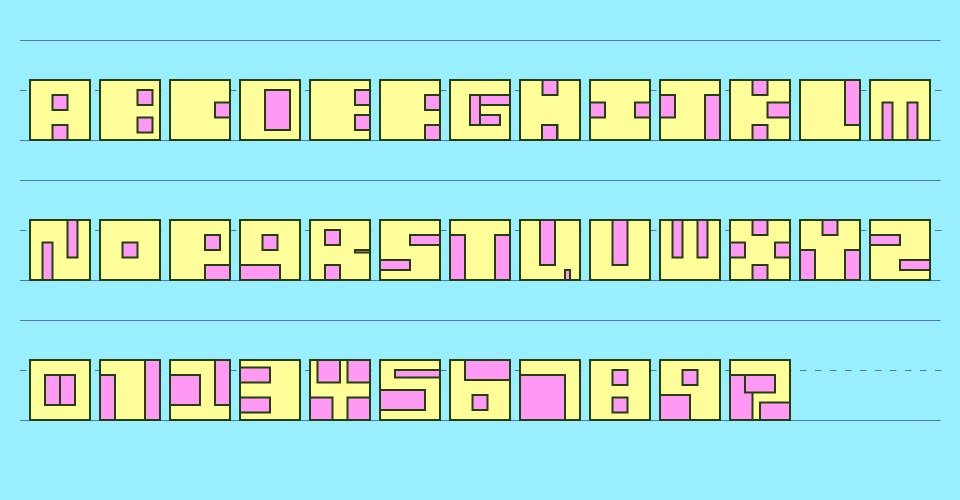
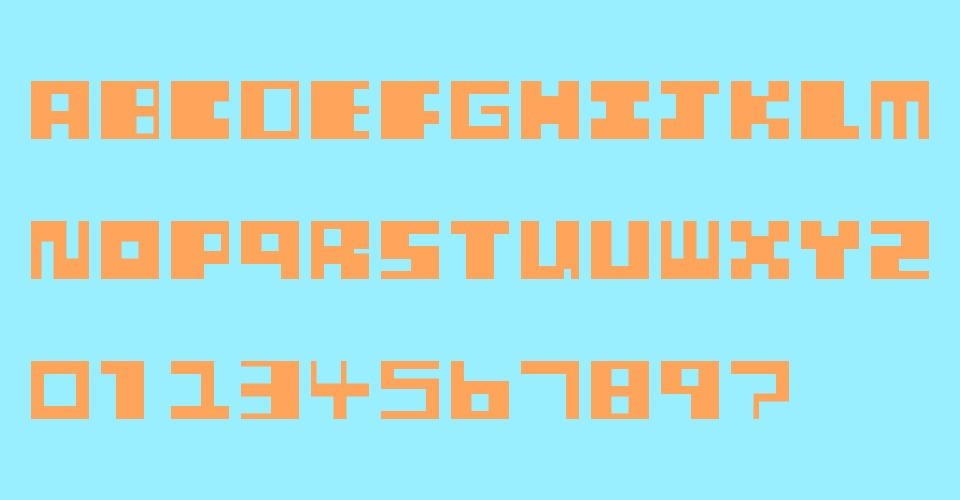
colour changes

diff --git a/editor.js b/editor.js
@@ -10,10 +10,8 @@ function sliderToDataObject() {
   obj["sizeB1y"] = map(param_sliders[1].value(), 0, 100, 0, 90);
   obj["sizeB2x"] = map(param_sliders[2].value(), 0, 100, 0, 90);
   obj["sizeB2y"] = map(param_sliders[3].value(), 0, 100, 0, 90);
- 
   obj["posB1x"] = map(param_sliders[4].value(), 0, 100, 0, 90);
   obj["posB1y"] = map(param_sliders[5].value(), 0, 100, 0, 90);
-
   obj["posB2x"] = map(param_sliders[6].value(), 0, 100, 0, 90);
   obj["posB2y"] = map(param_sliders[7].value(), 0, 100, 0, 90);
   obj["posB3x"] = map(param_sliders[8].value(), 0, 100, 0, 90);

diff --git a/draw_letters.js b/draw_letters.js
@@ -1,4 +1,4 @@
-const colorFront1  = "#ff99f3";
+const colorFront1  = "#FFA45B";
 const colorFront2  = "#99eeff";
 const colorStroke  = "#99eeff";
 
@@ -66,11 +66,12 @@ function interpolate_letter(percent, oldObj, newObj) {
      new_letter["posB4x"]    = map(percent, 0, 100, oldObj["posB4x"], newObj["posB4x"]);
   new_letter["posB4y"]    = map(percent, 0, 100, oldObj["posB4y"], newObj["posB4y"]);
   
+
   return new_letter;
 }
 
 var swapWords = [
-  "ABBAABBA",
-  "CAB?CAB?",
-  "BAAAAAAA"
+  "CUBEFONT",
+  "MUSHROOM",
+  "ABSOLUTE"
 ]

diff --git a/README.md b/README.md
@@ -2,7 +2,7 @@
 
 Helen Perkins
 
-Now that I was happy with the forms of my alphabet/numbers I have experimented with some colour palettes and changed it up quite a bit. I have made the stroke and fill colour of the smaller boxes the same colour as the background, because this gives the illusion of there being no small boxes overlapping the large boxes at all, and instead looks like holes cut out of squares which was a look I was going for all along. I think this change has made my alphabet significantly more legible. I have also removed the yellow and at the moment I am using a pink/blue colour scheme though I plan to experiment with this a bit more. I want my colour scheme to be playful and fun rather then the standard black text on a white background.
+Colour experimentation
 
 Parameters:
 
